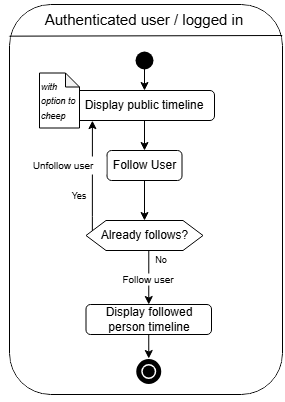
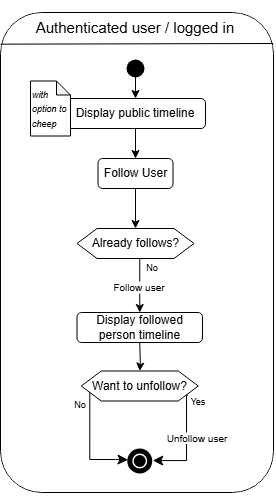
Done

diff --git a/docs/report.md b/docs/report.md
@@ -48,7 +48,7 @@ The process of cheeping is show in this diagram:
 
 <figure style="text-align: center;">
     <img src="images/chirpUserActCheep.png" style="width: 50vw;"/>
-    <figcaption>Figure 2. Cheep journey and validation of cheep</figcaption>
+    <figcaption>Figure 3. Cheeping journey and validation of cheep</figcaption>
 </figure>
 
 A cheep is valid if its length, as show in the diagram, is between 0 and up to and including 160 characters. If you were to click the Share button, with and empty text field, a warning will pop up. A warning pop up wont explicitly be shown to the user for cheeps longer that 160 characters, we simply show the length counter on screen, and dont allow for more characters, in both front- and backend.
@@ -57,11 +57,30 @@ The users also need to like cheeps, for that action we have this diagram:
 
 <figure style="text-align: center;">
     <img src="images/chirpUserActLike.png" style="width: 50vw;"/>
-    <figcaption>Figure 2. Cheep journey and validation of cheep</figcaption>
+    <figcaption>Figure 4. Liking cheeps</figcaption>
 </figure>
 
+The 'heart' button we have besides each cheep is essentially a toggle for likes on the given cheep. And as showed in the diagram, each user can only like any given cheep once. It is important to note, as of now the liking of a cheep will result in the page redirecting you to the root page (page 1), even though you might be on for instance page 6. This is an obvious room for improvement and is currently a task in the project board.
 
+Next up we want to show the journey of a user following another user.
+<figure style="text-align: center;">
+    <img src="images/chirpUserActFollow.png" style="width: 50vw;"/>
+    <figcaption>Figure 5. Following users</figcaption>
+</figure>
 
+The flow of following a user, is close to the same as liking cheeps, as both are 'toggles'. The only difference is that we decided to show the newly followed users profile after the follow action. Which eleminates the issue we are having with liking cheeps far down on the public timeline, and wanting to scroll beyond that point afterwards. This does then create the issue with wanting to continue scrolling after following. 
+But this navigate to the private timeline of the newly followed user, is a conscious decision.
+
+Lastly it is important for us to show how the user can delete and see the data we have gathered.
+
+<figure style="text-align: center;">
+    <img src="images/chirpUserActDelete.png" style="width: 50vw;"/>
+    <figcaption>Figure 6. Deleting the user and download data</figcaption>
+</figure>
+
+The linear diagram is pretty much self explanatory, but we feel it's important to show either way, since this is last key feature for a user to experience.
+
+The diagrams provide a clear overview of user journeys, including registering, posting a cheep, liking cheeps, following other users, and deleting an account. Additionally we have highlighted some areas for improvements.
 
 
 
